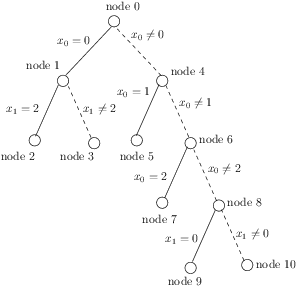
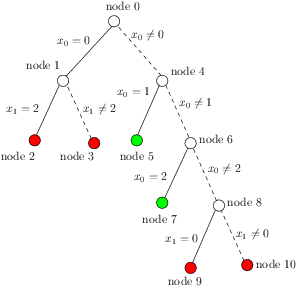
documentation backup

diff --git a/doc_sources/MANUAL/source/manual/search_primitives/cpviz.rst b/doc_sources/MANUAL/source/manual/search_primitives/cpviz.rst
@@ -143,12 +143,65 @@ The search tree
 
 ..  only:: draft
 
+    By reading the file :file:`cpviz_nqueens4_basic.txt`, we can retrace the search and reconstruct the search tree:
+    
     ..  image:: images/search_tree1.*
         :width: 297px
         :align: center
         :height: 286px
         :alt: alternate text
     
+    As you can see, at each node, the solver took a ``Decision``: the left branch to *apply* the ``Decision`` and the right branch 
+    to *refute* this ``Decision``. The leaf nodes in red denote subtrees that are not worth exploring explicitly: we cannot find any solution 
+    along this branch of the tree. The leaf nodes in green denote on the contrary feasible solutions. The nodes are numbered in the order
+    of creation and we can see that the search tree is traversed in pre-order by the solver.
+    
+    In the file :file:`nqeens4.cc`, we have printed some statistics about the search:
+    
+    ..  code-block:: c++
+    
+        std::cout << "Number of solutions: " << num_solutions << std::endl;
+        std::cout << "Failures: " << s.failures() << std::endl;
+        std::cout << "Branches: " << s.branches() << std::endl;
+        std::cout << "Backtracks: " << s.fail_stamp() << std::endl;
+        std::cout << "Stamps: " << s.stamp() << std::endl;
+    
+    and when the ``size`` is :math:`4`, we get as output:
+    
+    ..  code-block:: bash
+    
+        Number of solutions: 2
+        Failures: 6
+        Branches: 10
+        Backtracks: 9
+        Stamps: 29
+
+    Let's see if we can relate those statistics with the search tree. The three first statistics are easy to spot in the tree:
+    
+      Number of solutions (2):
+        There are indeed two distinct solutions denoted by the two green leafs.
+        
+      Failures (6):
+        A failure occurs whenever the solver has to backtrack, wether it is because of a real failure (nodes :math:`2-3` and :math:`9-10`)
+        or a success (nodes :math:`5` and :math:`7`). Indeed, when the solver finds a solution, it has to backtrack to find other solutions.
+        The method ``failures()`` returns the number of leaves of the search tree. In our case, :math:`6`.
+        
+      Branches (10):
+        Number of branches in the tree, indeed :math:`10`.
+        
+      The two last statistics are more difficult to understand by only looking at the search tree.
+      
+      Backtracks (9):
+        Because of the way the search is coded, the ``fail_stamp()`` counter starts already at :math:`2` before any top level search.
+        There are :math:`6` failures (one for each node, see Failures above) and this brings the counter to :math:`8`. To end the search, 
+        a last backtrack [#real_last_backtrack]_ is necessary to reach the root node and undo the search which brings the counter to :math:`9`.
+    
+        ..  [#real_last_backtrack] Actually, the very last backtrack happens when the solver is deleted.
+    
+      Stamps (29):
+        This statistic is more an internal statistic than a real indicator of the search. It is related to the 
+        movements in the queue during the search.
+        
 Propagation
 """""""""""
 
